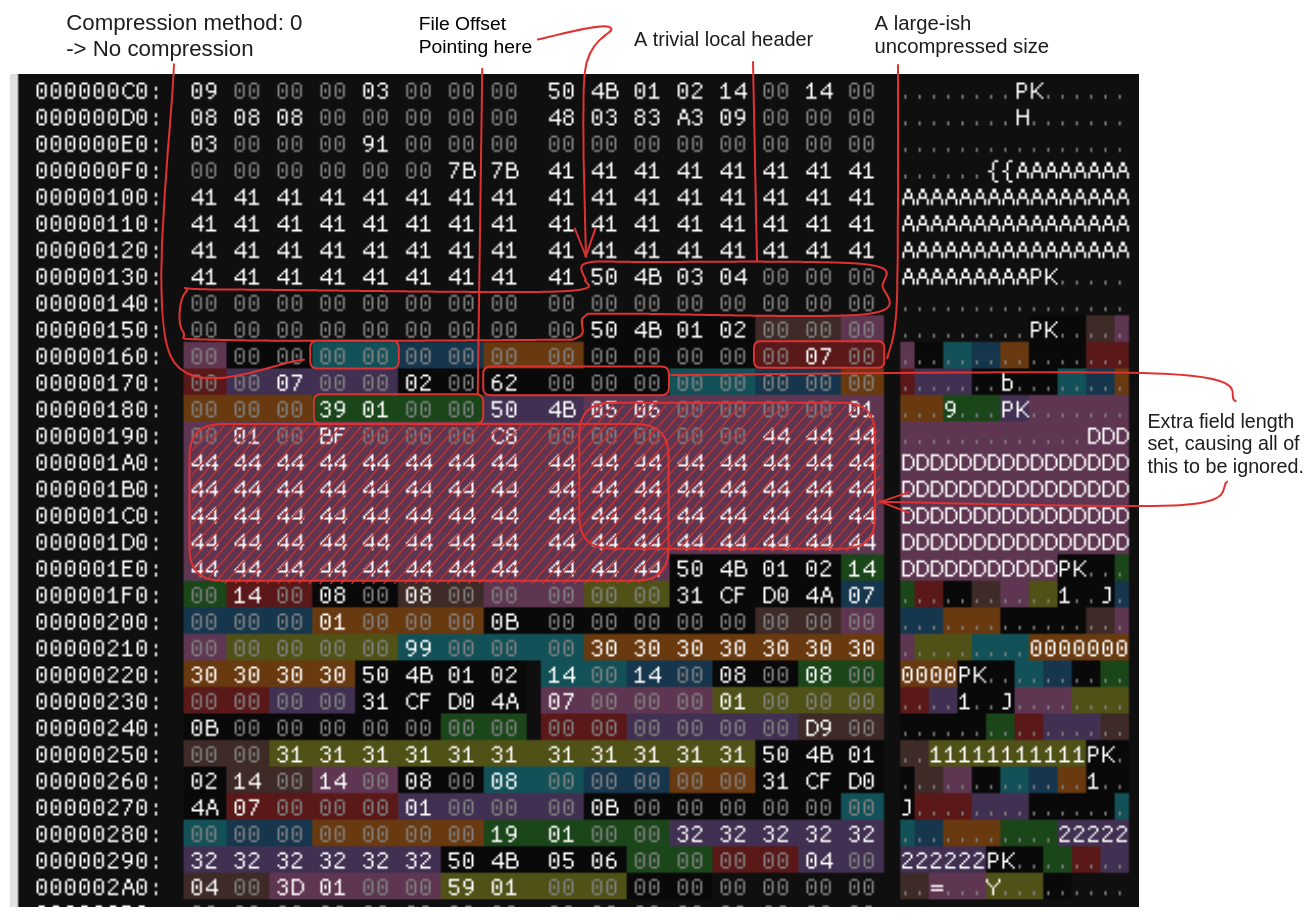
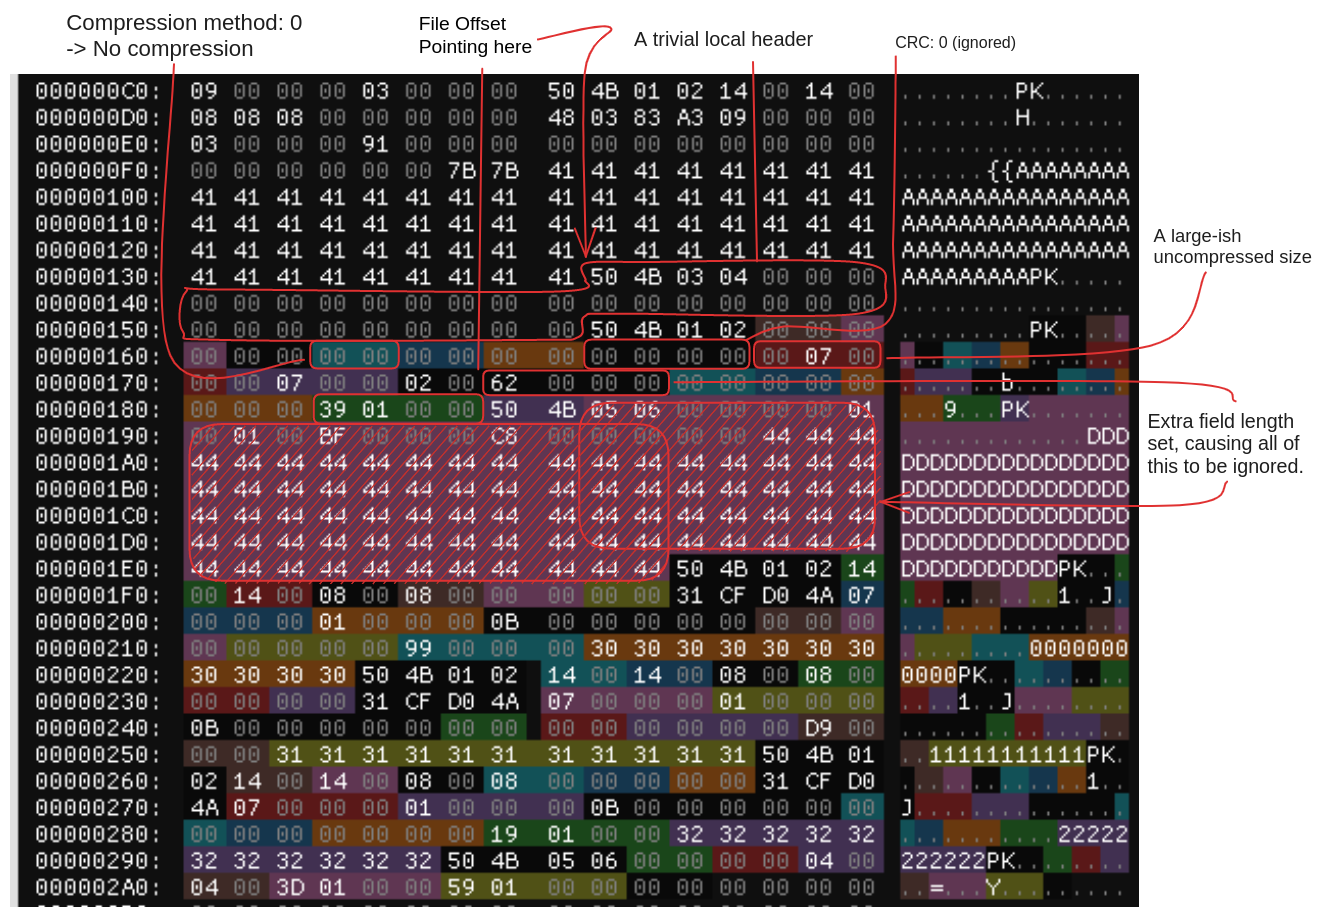
Small updates

Changed region(s): [[0.0312, 0.0, 0.9977, 0.9771], [0.0624, 0.0, 0.2183, 0.0611]]

diff --git a/defcon23qual/archive-bunker/writeup.md b/defcon23qual/archive-bunker/writeup.md
@@ -6,7 +6,7 @@ Link to [challenge](https://github.com/Nautilus-Institute/quals-2023/tree/main/a
 
 ## Exploration
 
-We get website with some doomsday-paranoid advertising for storing your CI / CD artifacts in super-secur bunker. 
+We get website with some doomsday-paranoid advertising for storing your CI / CD artifacts in a super-secure bunker. 
 We interact with the application through what looks like a military-grade rugged computer terminal with shitty control buttons.
 We can upload `zip` or `tar` archives by drag'n'dropping them into the screen and then we can browse the uploaded archives and see the contents of the contained files.
 We can also hit a mysterious `prep-artifacts` button that will make a `app-main--<timestamp>` archive appear, containing some weird text files.
@@ -33,8 +33,7 @@ The third important command is the `job` command, which only supports one subcom
 You can also pass an arbitrary `name` for the package-job.
 Under the hood, this feature is massively over-engineered:
 In the spirit of CI-Tools the actual input is a yaml file that describes `steps` (archives) of a certain `name` that contain certain files.
-The go server will prepare that yaml by applying some variables to a template file (included in the source) with go-langs [templating engine](todo: link) which is similar to jinja or django templating for the web folks reading this.
-It will create a `.tar` archive and again a zip archive **without** a filename extension for every `step`.
+The go server will prepare that yaml by applying some variables to a template file (included in the source) with go-langs templating engine which is similar to jinja or django templating for the web folks reading this. For every `step` it will create a `.tar` archive and again a zip archive **without** an extension.
 
 Did you catch it? It creates archives with a `name` and we can specify a `name` for our websocket command...
 
@@ -49,26 +48,25 @@ job:
         - "bunker-expansion-plan.txt"
         - "new-layer-blueprint.txt"
 ```
-with our specially crafted `name` turns it into this:
+With our specially crafted `name` it turns into this:
 ![Inected YAML](./assets/InYection.png)
 
-One big limitation we have here, is that we can only include files into our archive that are inside the `/project` directory. This is again specified in the config file via the `root` setting. 
-The good news is that `flag.txt` is in this `/project` directory and that the CI job will create a `.tar` archive (which has no compression) and a zip archive in the `/data` directory.
+One big limitation we have here, is that we can only include "artifacts" that are inside the `/project` directory. This is again specified in the config file via the `root` setting. 
+The good news is that `flag.txt` is in this `/project` directory and that the CI job will create a `.tar` archive and a zip archive in the `/data` directory.
+Note that `.tar` doesn't have any compression.
 The bad news is that the zip archive will be created with `compress_files`, which applies the "censorship" mechanism described earlier. 
 And you might remember that the download command will always and only look at zip archives.
 
-So we have a mechanism to get the flag into a tar file in `/data`, but how do we get it out of there?
-
-<10 Hours later>
+So we have a mechanism to get the plaintext flag into a tar file in `/data`, but how do we get it out of there?
 
 # There is an overwrite
 
-We spent a lot of time pocking around for path traversals in the archive processing logic this is a web-challenge, right? RIGHT?
+We spent a lot of time pocking around for path traversals in the archive processing logic, because after all: This is a web-challenge, right? RIGHT?
 
 We didn't find anything like that, but suddenly we discovered that the loathed `compress_files` function did have a bug: 
 
 It doesn't check whether the file it was writing the archive to already exists! So it would overwrite existing files. 
-Notice that it will overwrite not replace: If the original file is larger than the zip file, the "bottom" contents of 
+Notice that it will _overwrite_ not _replace_: If the preexisting file is larger than the new zip file, the "bottom" contents of 
 the original will not be erased! Additionally, we can use this to write into the tar created by the InYection by using 
 `filename.tar.zip` as the filename, since only the `.zip` extension will be stripped!
 
@@ -94,13 +92,14 @@ The general Zip structure looks like this:<br>
 A directory of all files, called _Central Directory_ (CD) is placed at the end (yes you read that right) of a ZIP file. This identifies what files are in the Zip and where there are located (it doesn't literally need to be at the end, but we'll come back to this later).<br>
 The CD consists of a _CD File Header_ for each file in the archive, that contains multiple fields, among them:
 - `file-name-len` and `file-name`: Name of a member: *Uncompressed and arbitrary*, max 2^16 bytes 
-- `compression`: May be no compression (`0`)
+- `compression`: May also be "no compression" (`0`)
 - `crc-32`: if this is `0`, the checksum is ignored
 - `compressed-size`
 - `extra-filed-length`: extra data after the `file-name`, max 2^16 bytes
 - `offset`: This is not the offset of the file content itself: the content is preceded by a _Local File Header_, which simply repeats most of the details already present in the central directory.
 
 As mentioned above, the Zip archive does not need to end in the CD. The standard allows for a _File comment_ of length up to 65535 bytes after the CD, which can contain arbitrary data.
+(Flags for example).
 
 # Zip! Y u so nasty??? 
 The keen reader might have observed that the format allows for some nasty ambiguities: Some header fields, like `crc-32` and `compression` are in the directory header AND member header, so which one takes precedence? 
@@ -108,8 +107,8 @@ We checked the go implementation. It seems like it will always use the value in 
 
 The trouble is that we can not control the zip metadata that `compress_files` will write. It will just 
 open the provided archive and copy the members into a new zip archive with defaults for compression, 
-a proper crc, etc. In addition: The `download` function give us an empty file if the go zip reader 
-encounters anything it doesn't like, for example invalid checksums or data that doesn't properly decompress directory headers. 
+a proper crc, etc. In addition: The `download` function gives us an empty file if the go zip reader 
+encounters anything it doesn't like, for example invalid checksums or data that doesn't properly decompress. 
 
 But truth be told, we do control one of the header fields: The member name! After a lot of head scratching our refined 
 exploit plan looks like this:
@@ -118,33 +117,35 @@ exploit plan looks like this:
 2. Write a smaller `small.zip` into the tar, so we have a zip directory header
 3. Write an even smaller `tiny.zip` into the tar, with a member name that:
    - Contains a valid local header 
-   - Overrides the `member offset` to point to the member header mentioned above
-   - Overrides the `compression-method` and `crc` in the directory header to `0` 
+   - Overrides the `member offset` in the CD to point to the member header mentioned above
+   - Overrides the `compression-method` and `crc` in the CD to `0` 
    - Does not break the central directory in a way that upsets the go zip reader 
 3. Download the flag from our "crafted" zip
 
 ![DefCon ctf Web Challenges](./assets/web-challenge-meme.jpg)
 
-After we generate the tar and upload `small.zip`, we see a directory header in `manyflgs.tar` that looks like this.  The long sequences of `D`, `0`, `1` and `2` are the file names we used. Notice the `50 4B 05 06` in the second to last row of bytes, those mark the footer of the central directory.
+After we generate the tar and upload `small.zip`, we see a directory header in `manyflgs.tar` that looks like this.  The long sequences of `D`, `0`, `1` and `2` are the file names we used. Notice the `50 4B 05 06` in the second to last row of bytes, those are the magic bytes used to find the central directory.
 ![small-zip-directory](./assets/small-zip-directory.png).
 
 After uploading `tiny.zip` we see a new directory header in the file, which looks like below.
-Again notice `50 4B 05 06` marking footer of `tiny.zip`s central directory. And then there the very "strange" filename we chose this time. It starts with `{{AAA...` and has a bunch of null bytes in it. 
+Again notice `50 4B 05 06` at `0x187` marking `tiny.zip`s central directory. And then there the very "strange" 
+filename we chose this time. It starts with `{{AAA...` and has a bunch of null bytes in it. 
 Also: It overwrote some `D`s of the "old" directory.
 
 ![tiny-zip-directory](./assets/tiny-zip-directory.png).
 
-Now remember that the central directory is located the **end** of a zip file. That also means that a zip reader will search for the central directory end-to-start!
+Now remember that the central directory is located the **end** of a zip file. That also means that a zip reader will 
+search for the central directory end-to-start and discover the "old" magic bytes first!
 So the file will actually be interpreted like below. (No data changed, only the coloring.)
 
 ![small-zip-directory-overwritten](./assets/small-zip-directory-overwritten.png).
 
 And here we have annotated the most important bits. In order to not upset the go zip reader we made use of the `extra field lenght` to "hide" `tiny.zip`s central directory footer and some leftover `D`s.
 
-![small-zip-directory-overwritten-annotated](./assets/small-zip-directory-overwritten-annotated.png).
+![small-zip-directory-overwritten-annotated](./assets/small-zip-directory-overwritten-annotated.png)
 
-This is now a perfectly valid zip file with an uncompressed last member, starting at `0x159` and having size
-`0x0700`, which needless to say: Contains the flag. :) 
+This is now a perfectly valid zip file with an uncompressed last member. That members checksum is `0` (i.e. ignored), it 
+starts at `0x159` and has size `0x0700`. Needless to say: It contains (among other bytes) the flag. :) 
 
 # Exploit: 
 ```python
